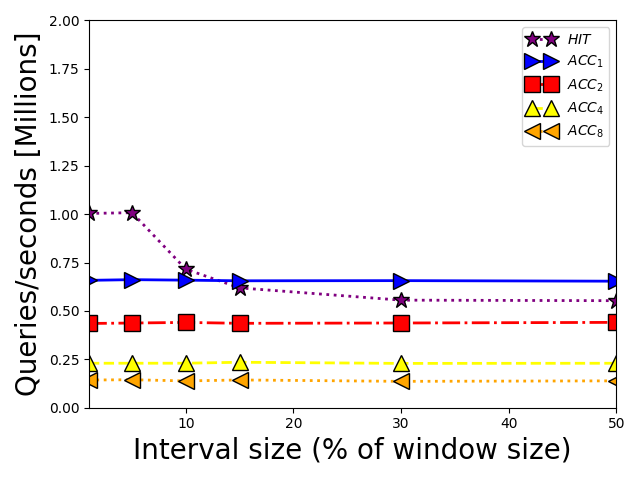
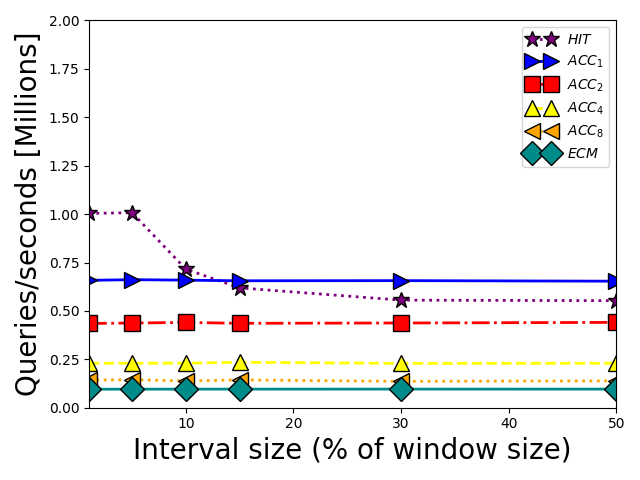
fixes

Changed region(s): [[0.125, 0.7812, 0.9688, 0.8438], [0.8125, 0.2812, 0.9375, 0.3438]]

diff --git a/plotEmpErrGraphs.py b/plotEmpErrGraphs.py
@@ -71,7 +71,7 @@ def memory_consumption(alg):
 def plot_speeds(speeds, dataset):
     average_speeds = speeds
     MS = 12
-    LW = 4
+    LW = 2
 
 
     memory_consumption("hit")
@@ -81,17 +81,23 @@ def plot_speeds(speeds, dataset):
     memory_consumption("acc8")
     #memory_consumption("ECM")
 
-    print "values of x", memory["acc8"]
-    print "value of y", average_speeds["acc8"]
-    print "values of x", memory["acc4"]
-    print "value of y", average_speeds["acc4"]
+    print "values of x acc8", memory["acc8"]
+    print "value of y acc8", average_speeds["acc8"]
+    print "values of x acc4", memory["acc4"]
+    print "value of y acc4", average_speeds["acc4"]
+    print "values of x acc2", memory["acc2"]
+    print "value of y acc2", average_speeds["acc2"]
+    print "values of x acc1", memory["acc1"]
+    print "value of y acc1", average_speeds["acc1"]
+    print "values of x hit", memory["hit"]
+    print "value of y hit", average_speeds["hit"]
 
 
-    #plt.plot(memory["hhh2RSS"], average_speeds["hhh2RSS"],"-o",label="$HIT$", markersize=MS, linewidth=LW, c="purple")
-    #plt.plot(memory["acc1"], average_speeds["acc1"],"-o",label="$ACC_1$", markersize=MS, linewidth=LW, c="blue")
-    #plt.plot(memory["acc2"], average_speeds["acc2"],"-o",label="$ACC_2$", markersize=MS, linewidth=LW, c="red")
-    plt.plot(memory["acc4"], average_speeds["acc4"],"-o",label="$ACC_4$", markersize=MS, linewidth=LW, c="orange")
-    plt.plot(memory["acc8"], average_speeds["acc4"],"-o",label="$ACC_8$", markersize=MS, linewidth=LW, c="red")
+    plt.plot(memory["hit"], average_speeds["hit"],":*",label="$HIT$", markersize=MS, linewidth=LW, markeredgecolor="k", c="purple")
+    plt.plot(memory["acc1"], average_speeds["acc1"],"->",label="$ACC_1$", markersize=MS, linewidth=LW,markeredgecolor="k",c="blue")
+    plt.plot(memory["acc2"], average_speeds["acc2"],"-.s",label="$ACC_2$", markersize=MS, linewidth=LW, markeredgecolor="k",c="red")
+    plt.plot(memory["acc4"], average_speeds["acc4"],"--^",label="$ACC_4$", markersize=MS, linewidth=LW,  markeredgecolor="k",c="yellow")
+    plt.plot(memory["acc8"], average_speeds["acc8"],":<",label="$ACC_8$", markersize=MS, linewidth=LW, markeredgecolor="k",c="orange")
 
     #plt.xscale("log",basex=2)
     #plt.yscale("log",basex=2)
@@ -101,17 +107,17 @@ def plot_speeds(speeds, dataset):
     ylabel_str = "Observed Error"
     plt.ylabel(ylabel_str, fontsize=24)
     plt.tick_params(labelsize=10)
-    plt.xlim(1, 30)
-    plt.ylim(0, 500) #For Queries
-    plt.legend(loc="best") # keys of the graphs
+    plt.xlim(1, 15)
+    plt.ylim(0, 3000) #For Queries
+    plt.legend(loc="best", numpoints=2) # keys of the graphs
     plt.tight_layout()
-    plt.savefig('test.png')
+    plt.savefig('emp_error.png')
     plt.clf()
 
 
 
 csvFiles = dict()
-csvFiles['Chicago16'] ='tmp.txt'
+csvFiles['Chicago16'] ='merged_emp_error.txt'
 #csvFiles['SanJose14'] = sys.argv[1] + '/MySanJose_epsilon.txt'
 #csvFiles['Univ1'] = sys.argv[1] + '/MyUniv1_epsilon.txt'
 #csvFiles['Univ2'] = sys.argv[1] + '/MyUniv2_epsilon.txt'
@@ -125,11 +131,11 @@ minEps = 3
 maxEps = 14
 speeds = dict()
 eprange = dict()
-eprange["hit"]= range(10,15)
-eprange["acc1"]=range(6,9)
+eprange["hit"]= range(10,14)
+eprange["acc1"]=range(6,10)
 eprange["acc2"]=range(8,12)
 eprange["acc4"]=range(9,14)
-eprange["acc8"]=range(9,14)
+eprange["acc8"]=range(9,15)
 
 
 for dataset in csvFiles:

diff --git a/plotEpsIntervalsGraphs.py b/plotEpsIntervalsGraphs.py
@@ -11,7 +11,7 @@ import sys
 def plot_speeds(speeds, dataset):
     average_speeds = speeds
     MS = 12
-    LW = 4
+    LW = 2
     intervals = [1,5,10,15,30,50]
     print intervals
     print average_speeds["acc1"]
@@ -19,24 +19,27 @@ def plot_speeds(speeds, dataset):
     print average_speeds["acc4"]
     print average_speeds["acc8"]
     print average_speeds["hit"]
-    plt.plot(intervals, average_speeds["hit"],"-o",label="$HIT$", markersize=MS, linewidth=LW, c="red")
-    plt.plot(intervals, average_speeds["acc1"],"-o",label="$ACC_1$", markersize=MS, linewidth=LW, c="blue")
-    plt.plot(intervals, average_speeds["acc2"],"-o",label="$ACC_2$", markersize=MS, linewidth=LW, c="purple")
-    plt.plot(intervals, average_speeds["acc4"],"-o",label="$ACC_4$", markersize=MS, linewidth=LW, c="yellow")
-    plt.plot(intervals, average_speeds["acc8"],"-o",label="$ACC_8$", markersize=MS, linewidth=LW, c="orange")
+    print average_speeds["cm"]
+
+    plt.plot(intervals, average_speeds["hit"],":*" ,label="$HIT$", markersize=MS, markeredgecolor="k",linewidth=LW, c="purple")
+    plt.plot(intervals, average_speeds["acc1"],"->",label="$ACC_1$", markersize=MS, markeredgecolor="k",linewidth=LW, c="blue")
+    plt.plot(intervals, average_speeds["acc2"],"-.s",label="$ACC_2$", markersize=MS, markeredgecolor="k",linewidth=LW, c="red")
+    plt.plot(intervals, average_speeds["acc4"],"--^",label="$ACC_4$", markersize=MS, markeredgecolor="k",linewidth=LW, c="yellow")
+    plt.plot(intervals, average_speeds["acc8"],":<",label="$ACC_8$", markersize=MS, markeredgecolor="k",linewidth=LW, c="orange")
+    plt.plot(intervals, average_speeds["cm"],"-D",label="$ECM$", markersize=MS, markeredgecolor="k",linewidth=LW, c="darkcyan")
 
     #plt.xscale("log",basex=2)
     
     #plt.yscale("log",basex=2)
     #plt.gca().xaxis.set_major_locator(ticker.LogLocator(base=2))
 
-    plt.xlabel("Interval size ('%' of window size)", fontsize=20)
+    plt.xlabel("Interval size (% of window size)", fontsize=20)
     ylabel_str = "Queries/seconds [Millions]"
     plt.ylabel(ylabel_str, fontsize=20)
     plt.tick_params(labelsize=10)
     plt.xlim(1, 50)
     plt.ylim(0, 2) #For Queries
-    plt.legend(loc="best") # keys of the graphs
+    plt.legend(loc="best", numpoints=2) # keys of the graphs
     plt.tight_layout()
     plt.savefig('vary_intervals_sizes.png')
     plt.clf()

diff --git a/memory_consumption_new.py b/memory_consumption_new.py
@@ -26,7 +26,7 @@ def plot_memory(memory):
     LW = 4
 
     plt.plot(phis, average_memory["RAW"],"-.8"  ,label="$RAW$",markersize=MS, linewidth=LW, c="black")
-    plt.plot(phis, average_memory["hhh2RSS"],":*"   ,label="$HIT$" , ms=25,markersize=MS, linewidth=LW, c="purple")
+    plt.plot(phis, average_memory["hhh2RSS"],":*"   ,label="$HIT$" ,markersize=MS, linewidth=LW, c="purple")
     plt.plot(phis, average_memory["acc"],"->",label="$ACC_1$", markersize=MS, linewidth=LW, c="blue")
     plt.plot(phis, average_memory["acc1"],"-.s",label="$ACC_2$", markersize=MS, linewidth=LW, c="red")
     plt.plot(phis, average_memory["baseWRSS"],"-v",label="$WCSS$", markersize=MS, linewidth=LW, c="sienna")

diff --git a/main2RSS.cpp b/main2RSS.cpp
@@ -185,8 +185,8 @@ int main(int argc, char * argv[]) {
 
 #if defined(TEST_QUERY)  | defined(TEST_QUERY_INTERVALS)
 		int range = 10000;
-		//int interval_arr_size = ceil(n/range);
-		//intervals = (unsigned *) malloc(sizeof(unsigned) * interval_arr_size);
+		int interval_arr_size = ceil(n/range);
+		intervals = (unsigned *) malloc(sizeof(unsigned) * interval_arr_size);
 #endif
 		int block_sz = ceil((window_size * epsilon)/6);
 		int test_window =  window_size;
